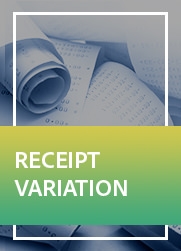
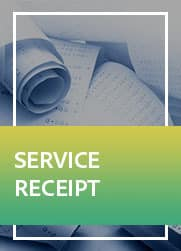
New image and revised reference

diff --git a/apis/documentcloud/dcsdk/doc-generation.html b/apis/documentcloud/dcsdk/doc-generation.html
@@ -342,10 +342,10 @@ active:
 					</div>
 				</div>
 
-				<!-- These are three hidden items. The botton to show them is below. -->
+				<!-- These are three hidden items. The button to show them is below. -->
 				<div class="sample-more sample-item card-container">
 					<div class="sample-icon">
-						<img src="{{ baseurl }}/gh-assets/img/template-icons/receipt_variation.jpg">
+						<img src="{{ baseurl }}/gh-assets/img/template-icons/service_receipt.jpg">
 					</div>
 					<h5>Receipt template</h5>
 					<div class="cta-wrapper">
